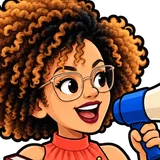
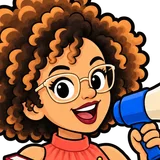
Refine character art, map terrain and discovery navigation

diff --git a/components/exploration-game.tsx b/components/exploration-game.tsx
@@ -22,6 +22,7 @@ const targets:Target[]=[...mapCharacters, ...modularDestinations.map<Target>(d=>
 const destinationPortraits:Record<string,string>={"pingos-nos-ins":"pingos-nos-ins-redacao-v04.png","east-cafe":"cafe-apoio-render-v01.png","colabin":"colabin-laboratorio-v02.png","vagao-feminino":"metro-vagao-feminino-v04.png","livrinhoteca":"livrinhoteca-isometrico-v01.png","cineminha":"cineminha-isometrico-v01.png","mercado-vagas":"mercado-vagas-isometrico-v01.png","prefeintura":"prefeitura-render-v02.png","taverna-joguins":"taverna-medieval-games-v04.png","pracinha":"praca-central-circular-v01.png","espacin-coloridin":"coloridin-arco-iris-frontal-v02.png","linkedin":"linkedin-predio-v02.png","jardim-secreto":"rosa-arvore-isometrica-v01.png","estudio-criativins":"estudio-render-v02.png","silicin-valley":"silicin-campus-v02.png","departamento-xerifins":"xerifins-departamento-v01.png","inglish-pub":"inglish-pub-render-v02.png","oficina-vendinhas":"feira-roupas-v01.png","torre-mistica":"torre-feiticaria-v02.png","plaza-hispanica":"plaza-arcada-bandeiras-v02.png","academia-marombins":"academia-render-v02.png","binstro":"binstro-render-v02.png","paises-africanos":"aeroporto-internacional-v02.png"};
 // Crop the existing illustration to the head without exposing the map pose or props.
 const facePortraits:Record<string,{width:number;height:number;crop:[number,number,number]}>= {
+  'simone-lapa':{width:1448,height:1086,crop:[475,15,500]},
   'gustavo-pontes':{width:1199,height:1312,crop:[350,0,560]},
   'camila-ochoa':{width:1317,height:1194,crop:[300,15,680]},
   'vinicius-macedo':{width:1024,height:1536,crop:[160,0,440]},
@@ -51,7 +52,7 @@ const facePortraits:Record<string,{width:number;height:number;crop:[number,numbe
   'maria-fernanda-figueiroa':{width:1024,height:1536,crop:[340,45,390]},
   'luara-nardelli':{width:1024,height:1536,crop:[290,70,540]},
   'naiane-de-mello':{width:1024,height:1536,crop:[270,0,530]},
-  'diego-ungari':{width:1388,height:1133,crop:[445,0,350]},
+  'diego-ungari':{width:1388,height:1133,crop:[420,0,400]},
   'elton-pavesi':{width:1024,height:1536,crop:[210,0,560]},
   'davi-cabeca':{width:1254,height:1254,crop:[110,10,1140]},
   'loisi-vieira':{width:1310,height:1200,crop:[275,20,410]},
@@ -153,6 +154,8 @@ export default function ExplorationGame({optimized=false,hd=false,hdManifest}:{o
   useLayoutEffect(()=>{wheelZoom.current=zoom;},[zoom]);
   const [message, setMessage] = useState('');
   const [messageVersion,setMessageVersion]=useState(0);
+  type Milestone = {text:string;tone:'quarter'|'half'|'complete'};
+  const [milestone,setMilestone]=useState<Milestone|null>(null);
   function showMessage(text:string){
     setMessage(text);
     setMessageVersion(version=>version+1);
@@ -162,6 +165,11 @@ export default function ExplorationGame({optimized=false,hd=false,hdManifest}:{o
     const timer=window.setTimeout(()=>setMessage(''),5000);
     return()=>window.clearTimeout(timer);
   },[message,messageVersion]);
+  useEffect(()=>{
+    if(!milestone)return;
+    const timer=window.setTimeout(()=>setMilestone(null),5000);
+    return()=>window.clearTimeout(timer);
+  },[milestone]);
   const [filter, setFilter] = useState<'all' | 'remaining'>('all');
   const help = useRef<HTMLDialogElement>(null);
   const reset = useRef<HTMLDialogElement>(null);
@@ -240,7 +248,6 @@ export default function ExplorationGame({optimized=false,hd=false,hdManifest}:{o
     if(e.touches.length)beginTouch(e);
   }
   const current = targets.find(t => t.id === selected);
-  const complete = mapCharacters.length > 0 && found.length === mapCharacters.length;
   function constrainCamera(){
     const v=viewport.current;if(!v)return;
     const next=boundedScroll(v.scrollLeft,v.scrollTop,v.clientWidth,v.clientHeight,v.scrollWidth,v.scrollHeight);
@@ -266,6 +273,20 @@ export default function ExplorationGame({optimized=false,hd=false,hdManifest}:{o
     v.addEventListener('wheel',wheel,{passive:false,capture:true});
     return()=>v.removeEventListener('wheel',wheel,true);
   },[viewportNode]);
+  function locateFoundCharacter(id:string){
+    if(!found.includes(id))return false;
+    const v=viewport.current;
+    const person=mapCharacters.find(character=>character.id===id);
+    const node=v?.querySelector<SVGGraphicsElement>(`#character-${id}, [data-character="${id}"]`)??Array.from(v?.querySelectorAll<SVGGraphicsElement>('.optimized-character')??[]).find(element=>element.getAttribute('aria-label')===`Encontrar ${person?.name}`);
+    if(!v||!node)return false;
+    const rect=node.getBoundingClientRect();
+    if(!rect.width||!rect.height)return false;
+    setSelected(id);
+    const frame=v.getBoundingClientRect();
+    const next=boundedScroll(v.scrollLeft+rect.left-frame.left+rect.width/2-v.clientWidth/2,v.scrollTop+rect.top-frame.top+rect.height/2-v.clientHeight/2,v.clientWidth,v.clientHeight,v.scrollWidth,v.scrollHeight);
+    v.scrollTo({left:next.left,top:next.top,behavior:window.matchMedia('(prefers-reduced-motion: reduce)').matches?'instant':'smooth'});
+    return true;
+  }
   function locateDestination(id:string){
     setSelected(id);const v=viewport.current,d=targets.find(item=>item.id===id);if(!v||!d)return false;
     // Follow rendered artwork rather than the original lot coordinates. The
@@ -296,14 +317,13 @@ export default function ExplorationGame({optimized=false,hd=false,hdManifest}:{o
     const count = found.length + 1;
     const quarter = Math.ceil(mapCharacters.length * .25);
     const half = Math.ceil(mapCharacters.length * .5);
+    showMessage(`Você encontrou ${target.name}!`);
     if (count === mapCharacters.length) {
-      showMessage('YAY! Você encontrou todos os amiguINs! E os easter eggs, achou todos? 👀');
+      setMilestone({text:'YAY! Você encontrou todos os amiguINs! E os easter eggs, achou todos? 👀',tone:'complete'});
     } else if (count === half) {
-      showMessage(`UAU! Você já achou ${count} amiguINs pelas ruas da amiguINlândia! Já se encontrou também?`);
+      setMilestone({text:`UAU! Você já achou ${count} amiguINs pelas ruas da amiguINlândia! Já se encontrou também?`,tone:'half'});
     } else if (count === quarter) {
-      showMessage(`Você já encontrou ${count} amiguINs! Tá curtindo passear pela amiguINlândia?`);
-    } else {
-      showMessage(`Você encontrou ${target.name}!`);
+      setMilestone({text:`Você já encontrou ${count} amiguINs! Tá curtindo passear pela amiguINlândia?`,tone:'quarter'});
     }
     if (selected === target.id) setSelected(null);
   }
@@ -349,7 +369,7 @@ export default function ExplorationGame({optimized=false,hd=false,hdManifest}:{o
           if (category.id === 'places') items.sort((a, b) => (placeListPriority[a.id] ?? 3) - (placeListPriority[b.id] ?? 3));
           const count = items.filter(t => found.includes(t.id)).length;
           const Icon = Store;
-          return <section className="category" key={category.id}><button className="category-heading" aria-expanded={!collapsed.includes(category.id)} onClick={() => setCollapsed(prev => prev.includes(category.id) ? prev.filter(c => c !== category.id) : [...prev, category.id])}><strong>{category.label}</strong>{category.id === 'people' && <span className="category-count">{count}<span>/{items.length}</span></span>}<ChevronDown size={15} className={collapsed.includes(category.id) ? 'closed' : ''} /></button>{!collapsed.includes(category.id) && <div className={`target-grid ${category.id === 'places' ? 'places-grid' : ''}`}>{items.filter(t => category.id === 'places' || filter !== 'remaining' || !found.includes(t.id)).map(target => <button key={target.id} className={`target-card ${selected === target.id ? 'selected' : ''} ${found.includes(target.id) ? 'found' : ''}`} aria-label={target.category === 'places' ? `Ir para ${target.name}` : `Procurar ${target.name}${sheriffIds.has(target.id)?', xerifIN':''}${found.includes(target.id) ? ', encontrado' : ''}`} aria-pressed={selected === target.id} onClick={() => { if(target.category === 'places'){if(locateDestination(target.id))showMessage(`Você está em ${target.name}.`);return;} setSelected(target.id); showMessage(found.includes(target.id) ? `${target.name} já foi encontrado!` : `Procurando ${target.name}. Encontre no mapa!`); }}><span className="portrait-wrap"><Portrait target={target} optimized={optimized}/>{sheriffIds.has(target.id)&&<span className="sheriff-badge" role="img" aria-label="xerifIN"><svg viewBox="0 0 24 24" aria-hidden="true"><path d="M12 3l3 6 6.6 1-4.8 4.7 1.1 6.6L12 18.2l-5.9 3.1 1.1-6.6L2.4 10 9 9Z" fill="#FAD846" stroke="#604722" strokeWidth="1.4"/>{[[12,3],[21.6,10],[17.9,21.3],[6.1,21.3],[2.4,10]].map(([x,y],i)=><circle key={i} cx={x} cy={y} r="1.5" fill="#FFE888" stroke="#604722" strokeWidth=".8"/>)}</svg></span>}{found.includes(target.id) && <span className="found-check"><Check size={12} /></span>}</span><span>{target.name}</span></button>)}</div>}</section>;
+          return <section className="category" key={category.id}><button className="category-heading" aria-expanded={!collapsed.includes(category.id)} onClick={() => setCollapsed(prev => prev.includes(category.id) ? prev.filter(c => c !== category.id) : [...prev, category.id])}><strong>{category.label}</strong>{category.id === 'people' && <span className="category-count">{count}<span>/{items.length}</span></span>}<ChevronDown size={15} className={collapsed.includes(category.id) ? 'closed' : ''} /></button>{!collapsed.includes(category.id) && <div className={`target-grid ${category.id === 'places' ? 'places-grid' : ''}`}>{items.filter(t => category.id === 'places' || filter !== 'remaining' || !found.includes(t.id)).map(target => <button key={target.id} className={`target-card ${selected === target.id ? 'selected' : ''} ${found.includes(target.id) ? 'found' : ''}`} aria-label={target.category === 'places' ? `Ir para ${target.name}` : `Procurar ${target.name}${sheriffIds.has(target.id)?', xerifIN':''}${found.includes(target.id) ? ', encontrado' : ''}`} aria-pressed={selected === target.id} onClick={() => { if(target.category === 'places'){if(locateDestination(target.id))showMessage(`Você está em ${target.name}.`);return;} if(found.includes(target.id)){if(locateFoundCharacter(target.id))showMessage(`Aqui está ${target.name}!`);return;} setSelected(target.id); showMessage(`Procurando ${target.name}. Encontre no mapa!`); }}><span className="portrait-wrap"><Portrait target={target} optimized={optimized}/>{sheriffIds.has(target.id)&&<span className="sheriff-badge" role="img" aria-label="xerifIN"><svg viewBox="0 0 24 24" aria-hidden="true"><path d="M12 3l3 6 6.6 1-4.8 4.7 1.1 6.6L12 18.2l-5.9 3.1 1.1-6.6L2.4 10 9 9Z" fill="#FAD846" stroke="#604722" strokeWidth="1.4"/>{[[12,3],[21.6,10],[17.9,21.3],[6.1,21.3],[2.4,10]].map(([x,y],i)=><circle key={i} cx={x} cy={y} r="1.5" fill="#FFE888" stroke="#604722" strokeWidth=".8"/>)}</svg></span>}{found.includes(target.id) && <span className="found-check"><Check size={12} /></span>}</span><span>{target.name}</span></button>)}</div>}</section>;
         })}</div>
 
 
@@ -363,12 +383,13 @@ export default function ExplorationGame({optimized=false,hd=false,hdManifest}:{o
 
           {<div className="map-actions"><button className="help-button" aria-label="Como jogar" onClick={() => help.current?.showModal()}><HelpCircle size={17} /></button><button className="help-button" aria-label="Recomeçar" onClick={() => reset.current?.showModal()}><RotateCcw size={17} /></button></div>}
 
-          {message && <div className={`game-message ${complete ? 'complete' : ''}`} role="status"><Sparkles size={19} /><span>{complete ? 'YAY! Você encontrou todos os amiguINs! E os easter eggs, achou todos? 👀' : message}</span><button aria-label="Fechar mensagem" onClick={() => setMessage('')}><X size={15} /></button></div>}
+          {message && <div className="game-message" role="status"><Sparkles size={19} /><span>{message}</span><button aria-label="Fechar mensagem" onClick={() => setMessage('')}><X size={15} /></button></div>}
+          {milestone && <div className={`game-message game-milestone ${milestone.tone}`} role="status"><Sparkles size={24} /><span>{milestone.text}</span><button aria-label="Fechar mensagem de progresso" onClick={()=>setMilestone(null)}><X size={15}/></button></div>}
         </div>
         <div className="map-footer"><span>{mapCharacters.length} pessoas para encontrar · clique nos EspacINs para navegar · use o zoom e arraste para explorar</span></div>
       </section>
     </div>
     <dialog ref={help} className="game-dialog"><button className="dialog-close" aria-label="Fechar instruções" onClick={() => help.current?.close()}><X /></button><h2>Explore a amiguINlândia</h2><ol><li>Escolha um amiguIN para procurar.</li><li>Ao encontrar, clique no amiguIN no mapa para registrar a descoberta.</li><li>Clique em um espacIN da lista para ir até ele no mapa.</li><li>Use o mouse (no computador) ou gesto de pinça nos dedos (no celular) para ampliar ou reduzir; arraste o mapa para explorar.</li><li>Eles não são registráveis, mas o mapa está cheio de easter eggs... encontrou todos? 👀</li></ol><button className="dialog-primary" onClick={() => help.current?.close()}>Vamos explorar <ArrowUpRight size={17} /></button></dialog>
-    <dialog ref={reset} className="game-dialog"><h2>Mais uma volta?</h2><p>As descobertas desta rodada serão apagadas e as pessoas poderão ser encontradas novamente.</p><div className="dialog-actions"><button onClick={() => reset.current?.close()}>Continuar jogando</button><button className="dialog-primary" onClick={() => { setFound([]); setSelected(null); setMessage(''); setZoom(1); reset.current?.close(); }}>Recomeçar</button></div></dialog>
+    <dialog ref={reset} className="game-dialog"><h2>Mais uma volta?</h2><p>As descobertas desta rodada serão apagadas e as pessoas poderão ser encontradas novamente.</p><div className="dialog-actions"><button onClick={() => reset.current?.close()}>Continuar jogando</button><button className="dialog-primary" onClick={() => { setMilestone(null); setFound([]); setSelected(null); setMessage(''); setZoom(1); reset.current?.close(); }}>Recomeçar</button></div></dialog>
   </main></MapEditorContext.Provider>;
 }

diff --git a/lib/map-characters.ts b/lib/map-characters.ts
@@ -1,6 +1,7 @@
 import type { Target } from './game-data';
 
 export const mapCharacters: (Target & { file: string; elevation?: number; isSheriff?: boolean; spriteFrame?: { x: number; y: number; width: number; height: number; sourceWidth: number; sourceHeight: number } })[] = [
+  { id: 'simone-lapa', name: 'Simone Lapa', article: 'a', category: 'people', x: 1121.111, y: -1881.111, width: 90, height: 67.5, file: '/images/characters/simone-lapa-grupo-v01.png', clue: 'Simone está no cantinho verde atrás da montanha, de blusa roxa, entre um palhaço, um tubarão fora d’água e um ET.' },
   { id: 'gustavo-pontes', name: 'Gustavo Pontes', article: 'o', category: 'people', isSheriff: true, x: 1312.158, y: -362.158, elevation: 90, width: 45, height: 49.241034, file: '/images/characters/gustavo-pontes-v01.png', clue: 'Gustavo é o xerifin de cachos e óculos, voando numa vassoura ao redor da torre mística com camiseta roxa de signos do zodíaco.' },
   { id: 'camila-ochoa', name: 'Camila Ochoa', article: 'a', category: 'people', x: 2300, y: 1600, width: 30, height: 27.2, file: '/images/characters/camila-ochoa-v02.png', clue: 'Camila está posando atrás do monumento EU ♥ amiguINs, com os cotovelos apoiados no M.' },
   { id: 'vinicius-macedo', name: 'Vinícius Macedo', article: 'o', category: 'people', isSheriff: true, x: 1285, y: 835, width: 36, height: 54, file: '/images/characters/vinicius-macedo-v01.png', clue: 'Vinícius é o xerifin de cachos e óculos na pracinha, empurrando o carrinho com um menino que segura uma pelúcia da Galinha Pintadinha.' },
@@ -20,19 +21,19 @@ export const mapCharacters: (Target & { file: string; elevation?: number; isSher
   { id: 'bruna-lucas', name: 'Bruna Lucas', article: 'a', category: 'people', x: 1793.505, y: 2456.495, width: 18, height: 54, file: '/images/characters/bruna-gabriela-v02.png', spriteFrame: {x:0,y:0,width:512,height:1536,sourceWidth:1024,sourceHeight:1536}, clue: 'Bruna está na área livre perto da praia, de camiseta preta e mãos dadas com Gabriela.' },
   { id: 'gabriela-ribeiro', name: 'Gabriela Ribeiro', article: 'a', category: 'people', isSheriff: true, x: 1806.495, y: 2443.505, width: 18, height: 54, file: '/images/characters/bruna-gabriela-v02.png', spriteFrame: {x:512,y:0,width:512,height:1536,sourceWidth:1024,sourceHeight:1536}, clue: 'Gabriela é a xerifinha de cabelos longos e óculos, com estrela no peito, de mãos dadas com Bruna perto da praia.' },
   { id: 'eduardo-mesquita', name: 'Eduardo Mesquita', article: 'o', category: 'people', x: 1734, y: 1725.37, width: 30, height: 45, file: '/images/characters/eduardo-mesquita-v02.png', clue: 'Eduardo está no círculo central do campo, falando ao microfone com uniforme do Fluminense e uma bola debaixo do braço.' },
-  { id: 'jakeline-sakamoto', name: 'Jakeline Sakamoto', article: 'a', category: 'people', x: 1710, y: 2460, width: 30, height: 45, file: '/images/characters/jakeline-sakamoto-v01.png', clue: 'Jakeline está fantasiada de Wandinha, com tranças e mechas claras, na área livre perto da praia.' },
+  { id: 'jakeline-sakamoto', name: 'Jakeline Sakamoto', article: 'a', category: 'people', x: 1710, y: 2460, width: 30, height: 45, file: '/images/characters/jakeline-sakamoto-v02.png', clue: 'Jakeline está fantasiada de Wandinha, com tranças e mechas claras, batom preto e mãozinha no ombro, na área livre perto da praia.' },
   { id: 'tiago-vieira', isSheriff: true, name: 'Tiago Vieira', article: 'o', category: 'people', x: 1640, y: 360, width: 60, height: 73, file: '/images/characters/tiago-vieira-v04.png', clue: 'Tiago, nosso prefeitIN, está diante da prefeitura preparando presentes na gift station.' },
   { id: 'eric-barros', name: 'Eric Barros', article: 'o', category: 'people', x: 1750, y: 1900, width: 30, height: 45, file: '/images/characters/eric-barros-v01.png', clue: 'Eric está perto da praia, com a camiseta preta da Elis, fazendo cara feia para a pamonha que segura.' },
   { id: 'melissa-augustin', isSheriff: true, name: 'Melissa Augustin', article: 'a', category: 'people', x: 2228, y: -303, width: 30, height: 45, file: '/images/characters/melissa-augustin-v04.png', clue: 'Melissa está sentada na sebe do jardim secreto, com um gatinho branco e laranja no colo e um pote de mel na mão.' },
   { id: 'ingrid-lima', name: 'Ingrid Lima', article: 'a', category: 'people', x: 1120, y: 1180, width: 41.5, height: 48, file: '/images/characters/ingrid-lima-v02.png', clue: 'Ingrid está de hábito de freira, com os cachos vermelhos à mostra, apoiada no refrigerador com ímãs GAB.' },
   { id: 'rebeca-araujo', name: 'Rebeca Araujo', article: 'a', category: 'people', x: 2790, y: 350, width: 30, height: 45, file: '/images/characters/rebeca-araujo-v03.png', clue: 'Rebeca está rindo de olhos fechados, com gorro laranja, fone, óculos e moletom preto.' },
-  { id: 'adriane-costa', name: 'Adriane Costa', article: 'a', category: 'people', isSheriff: true, x: 975, y: 975, width: 40, height: 60, file: '/images/characters/adriane-costa-v01.png', clue: 'Adriane é professora de espanhol e xerifinha na plaza hispânica, segurando um livro de espanhol e falando ao megafone.' },
+  { id: 'adriane-costa', name: 'Adriane Costa', article: 'a', category: 'people', isSheriff: true, x: 975, y: 975, width: 40, height: 60, file: '/images/characters/adriane-costa-v02.png', clue: 'Adriane é professora de espanhol e xerifinha na plaza hispânica, segurando um livro de espanhol e falando ao megafone.' },
   { id: 'maria-fernanda-figueiroa', name: 'Maffer Figueiroa', article: 'a', category: 'people', x: 1010, y: 1356, width: 30, height: 45, file: '/images/characters/maria-fernanda-figueiroa-v01.png', clue: 'María está na rua perto da plaza hispânica, comendo um espetinho de cuy, com cabelo roxo curto e óculos redondos.' },
   { id: 'luara-nardelli', name: 'Luara Nardelli', article: 'a', category: 'people', isSheriff: true, x: 394, y: 143, width: 30, height: 45, file: '/images/characters/luara-nardelli-v02.png', clue: 'Luara está sobre os livros em frente à livrINhoteca, de blusa roxa, abraçando dois livros e disparando seu revólver antigo para cima.' },
   { id: 'naiane-de-mello', name: 'Naiane de Mello', article: 'a', category: 'people', isSheriff: true, x: 228, y: 90, elevation: 12, width: 23, height: 40, file: '/images/characters/naiane-de-mello-v02.png', clue: 'Naiane é uma xerifinha de cabelo curto e óculos, saindo pela porta do vagão feminino e acenando para você.' },
-  { id: 'diego-ungari', name: 'Diego Ungari', article: 'o', category: 'people', x: 1600, y: -730, width: 48, height: 39, file: '/images/characters/diego-ungari-v03.png', clue: 'Diego mora na casinha da clareira e está sentado em um tronco, de moletom rosa, botas verdes e caneca na mão, perto de seu cachorro.' },
+  { id: 'diego-ungari', name: 'Diego Ungari', article: 'o', category: 'people', x: 1600, y: -730, width: 48, height: 39, file: '/images/characters/diego-ungari-v04.png', clue: 'Diego mora na casinha da clareira e está sentado em um tronco, de moletom rosa, botas verdes e caneca na mão, perto de seu cachorro.' },
   { id: 'elton-pavesi', name: 'Elton Pavesi', article: 'o', category: 'people', x: 2795, y: 375, width: 30, height: 45, file: '/images/characters/elton-pavesi-v02.png', clue: 'Elton está sentado em um banquinho na região da taverna dos joguINs, segurando um aviãozinho em uma mão e um pedaço de queijo na outra.' },
-  { id: 'davi-cabeca', name: 'Davi Cabeça', article: 'o', category: 'people', x: -95, y: -25, elevation: 14, width: 18, height: 20, file: '/images/characters/davi-cabeca-v01.png', clue: 'Davi é uma cabeça flutuante de cabelos cacheados e barba, em meio à Parada do Orgulho LGBT no cantIN coloridIN.' },
+  { id: 'davi-cabeca', name: 'Davi Cabeça', article: 'o', category: 'people', x: -95, y: -25, elevation: 14, width: 18, height: 20, file: '/images/characters/davi-cabeca-v02.png', clue: 'Davi é uma cabeça flutuante de cabelos cacheados e barba, em meio à Parada do Orgulho LGBT no cantIN coloridIN.' },
   { id: 'loisi-vieira', isSheriff: true, name: 'Loisi Vieira', article: 'a', category: 'people', x: 2690, y: 245, width: 49, height: 45, file: '/images/characters/loisi-vieira-v02.png', clue: 'Loisi está na área da taverna dos joguINs, empurrando um carrinho de supermercado e usando uma estrela de xerife no peito.' },
   { id: 'henrique-hardman', name: 'Henrique Hardman', article: 'o', category: 'people', x: 260, y: 55, elevation: 61, width: 34, height: 38, file: '/images/characters/henrique-hardman-v02.png', clue: 'Henrique está agachado no teto do vagão feminino, com um pé de cabra junto ao alçapão fechado com cadeado.' },
   { id: 'patrick-canuto', isSheriff: true, name: 'Patrick Canuto', article: 'o', category: 'people', x: 2828, y: 130, width: 30, height: 45, file: '/images/characters/patrick-canuto-v01.png', clue: 'Patrick é o taverneiro de roupas medievais, óculos, estrela de xerife e controle de videogame, diante da taverna junto à floresta.' },

diff --git a/components/modular-map.tsx b/components/modular-map.tsx
@@ -8,7 +8,7 @@ import MapCars from './map-cars';
 import EditableGroundPatches from './editable-ground-patches';
 import {MovableMapElement,MapLayoutLayers} from './map-layout-editor';
 import NorthMetropolis, {MetropolisTransitionGround} from './north-metropolis';
-import NorthMountain from './north-mountain';
+import NorthMountain, {NorthMountainGround} from './north-mountain';
 import NorthDesert from './north-desert';
 import {forestCoastPlants} from '@/lib/north-forest';
 import forestComposite from '@/lib/forest-composite.json';
@@ -96,10 +96,11 @@ export default function ModularMap({ selected, onSelect }: { selected: string | 
     <MovableMapElement id="forest-composite-front" locked><image data-forest-composite="front" href={forestComposite.front.file} x={forestComposite.x} y={forestComposite.y} width={forestComposite.width} height={forestComposite.height} pointerEvents="none" aria-label="Árvores da frente da floresta"/></MovableMapElement>
     <MovableMapElement id="north-metropolis" locked><NorthMetropolis/></MovableMapElement>
     <MetroUnderpass/>
+    <MapLayoutLayers front={false}/>
+    <MovableMapElement id="north-mountain-ground" locked><NorthMountainGround/></MovableMapElement>
     <MovableMapElement id="north-mountain" locked><NorthMountain/></MovableMapElement>
     <g data-layer="destinations-depth-sorted">
     <MovableMapElement id="pamonha-cornfield-ground"><path d="M300 686Q404 682 447 704Q495 731 470 790Q456 846 483 895Q506 946 475 1005Q461 1048 481 1104Q503 1170 468 1220Q446 1270 474 1325Q497 1380 468 1433Q448 1480 480 1532Q510 1598 459 1648Q422 1674 300 1668Z" fill="url(#pamonha-earth-texture)" mask="url(#pamonha-earth-fade)" pointerEvents="none"/></MovableMapElement>
-    <MapLayoutLayers front={false}/>
     <g pointerEvents="none" fill="url(#pamonha-earth-texture)">
       {[{x:558,y:1558,width:389},{x:1063,y:2118,width:384}].map(lot=><polygon key={lot.y} points={[[lot.x,lot.y],[lot.x+lot.width,lot.y],[lot.x+lot.width,lot.y+444],[lot.x,lot.y+444]].map(([x,y])=>{const p=projectGround(x,y);return `${p.x},${p.y}`;}).join(' ')}/>)}
     </g>
@@ -121,9 +122,9 @@ export default function ModularMap({ selected, onSelect }: { selected: string | 
     <MovableMapElement id="hen-rebeca-accessories"><image href="/images/modular/galinha-rebeca-v01.png" x="1490" y="1090" width="25" height="30" pointerEvents="none"/></MovableMapElement>
     <MovableMapElement id="rebeca-dimensional-vortex"><image href="/images/modular/vortex-rebeca-v01.png" x="1380" y="1020" width="100" height="100" pointerEvents="none"/></MovableMapElement>
     <MovableMapElement id="gabriel-female-moustache-nonplayable"><image href="/images/modular/gabriel-versao-feminina-bigode-v01.png" x="460" y="570" width="30" height="45" pointerEvents="none"/></MovableMapElement>
-    <MovableMapElement id="bolsonaro-cage-nonplayable"><image href="/images/modular/bolsonaro-jaula-npc-v01.png" x="1610" y="755" width="44" height="66" pointerEvents="none"/></MovableMapElement>
+    <MovableMapElement id="bolsonaro-cage-nonplayable"><image href="/images/modular/bolsonaro-jaula-npc-v04.png" x="1610" y="755" width="44" height="66" pointerEvents="none"/></MovableMapElement>
     <MovableMapElement id="football-field-bleachers"><g transform="translate(944 1098)" pointerEvents="none"><g transform={uprightProjection(-.554, .587).transform}><image href="/images/modular/campinho-arquibancada-v02.png" width="380" height="253.33"/></g></g></MovableMapElement>
-    <MovableMapElement id="lula-nonplayable"><image href="/images/modular/lula-npc-v01.png" x="1550" y="755" width="28" height="42" pointerEvents="none"/></MovableMapElement>
+    <MovableMapElement id="lula-nonplayable"><image href="/images/modular/lula-npc-v02.png" x="1550" y="755" width="28" height="42" pointerEvents="none"/></MovableMapElement>
     <MovableMapElement id="job-seekers-queue"><image href="/images/modular/fila-empregos-v01.png" x="1265" y="515" width="120" height="80" pointerEvents="none"/></MovableMapElement>
     <MovableMapElement id="work-booklet-loose"><image href="/images/modular/carteira-trabalho-avulsa-v01.png" x="1370" y="610" width="30" height="30" pointerEvents="none"/></MovableMapElement>
     <MovableMapElement id="cemetery-single-image"><image href="/images/modular/cemiterio-v01.png" x="885" y="1070" width="175" height="140" pointerEvents="none"/></MovableMapElement>

diff --git a/components/pilot-landscape-prop.tsx b/components/pilot-landscape-prop.tsx
@@ -20,13 +20,19 @@ export default function PilotLandscapeProp({ item }: { item: LandscapeProp }) {
   const treeWidth = item.size ?? 105;
   const illustration = item.kind === 'clock' || item.kind === 'lamp' || item.kind === 'popcorn' || item.kind === 'planter' || item.kind === 'table' || item.kind === 'notice' || item.kind === 'bollard' ? illustratedProps[item.kind] : null;
   if (illustration) return <g data-landscape={item.id} transform={`translate(${at.x} ${at.y})`} pointerEvents="none" aria-hidden="true">
-    <image href={`${pilotAssetPath}${illustration.file}`} x={-illustration.anchorX*illustration.scale} y={-illustration.anchorY*illustration.scale} width={illustration.width*illustration.scale} height={illustration.height*illustration.scale} preserveAspectRatio="xMidYMid meet"/>
+    <image href={`${pilotAssetPath}${item.id==='civic-city-notice'?'mural-workshop-capcut-v01.png':illustration.file}`} x={-illustration.anchorX*illustration.scale} y={-illustration.anchorY*illustration.scale} width={illustration.width*illustration.scale} height={illustration.height*illustration.scale} preserveAspectRatio="xMidYMid meet"/>
+    {item.id==='civic-city-notice'&&<g transform="scale(.052) translate(-700 -965)">
+      <g transform="matrix(1 .342 0 1 430 330)">
+        <text x="265" y="44" textAnchor="middle" fill="#1C1C1C" fontFamily="var(--font-gasoek), sans-serif" fontSize="35">
+          {['JÁ SE INSCREVEU','PRO WORKSHOP','DE CAPCUT DIA 15?'].map((line,i)=><tspan key={line} x="265" dy={i===0?0:62}>{line}</tspan>)}
+        </text>
+      </g>
+    </g>}
   </g>;
   return <g data-landscape={item.id} transform={`translate(${at.x} ${at.y})`} pointerEvents="none" aria-hidden="true" stroke={p.ink} strokeWidth="1.8" strokeLinejoin="round" strokeLinecap="round">
     <ellipse cx="7" cy="3" rx={item.kind==='tree'?22:19} ry="8" fill={p.ink} opacity=".12" stroke="none"/>
     {item.kind==='tree' && <image href={`${pilotAssetPath}rosa-arvore-isometrica-v01.png`} x={-treeWidth*.525} y={-treeWidth*.7} width={treeWidth} height={treeWidth*.75} preserveAspectRatio="xMidYMid meet"/>}
   </g>;
 }
-
 
 

diff --git a/components/north-mountain.tsx b/components/north-mountain.tsx
@@ -1,4 +1,12 @@
 export default function NorthMountain(){return <g data-layer="north-mountain" pointerEvents="none" aria-label="Montanha com letreiro AMIGUINLÂNDIA">
-  <path d="M2300-700H3400V140L2600 100L2300-70Z" fill="#789B48" aria-label="Chão verde atrás da montanha"/>
   <image href="/images/modular/montanha-letreiro-integrado-v02.png" x="1330" y="-230" width="1700" height="642.82"/>
+</g>;}
+
+export function NorthMountainGround(){return <g pointerEvents="none">
+  <defs>
+    <pattern id="mountain-back-grass" x="2300" y="-700" width="1100" height="412.5" patternUnits="userSpaceOnUse">
+      <image href="/images/modular/montanha-chao-organico-v01.png" width="1100" height="412.5" preserveAspectRatio="xMidYMid slice"/>
+    </pattern>
+  </defs>
+  <path d="M2300-700H3400V140L2600 100L2300-70Z" fill="url(#mountain-back-grass)" aria-label="Chão verde texturizado atrás da montanha"/>
 </g>;}

diff --git a/app/globals.css b/app/globals.css
@@ -356,3 +356,10 @@ h1,h2,h3,h4,h5,h6,button,label,.eyebrow,.progress-label,.category-count,.map-top
 
 .sheriff-badge { position:absolute; left:-3px; bottom:-3px; width:19px; height:19px; display:grid; place-items:center; background:#fffef9; border-radius:50%; border:1px solid #c8b77b; z-index:1; }
 .sheriff-badge svg { width:16px; height:16px; overflow:visible; }
+
+.game-message.quarter { background:var(--pink); }
+.game-message.half { background:var(--coral); }
+
+.game-milestone { top:50%; transform:translate(-50%,-50%); width: min(460px,calc(100% - 35px)); padding:28px 30px; text-align:center; flex-direction:column; z-index:5; pointer-events:none; }
+.game-milestone > span { width:100%; text-align:center; }
+.game-milestone button { position:absolute; top:8px; right:8px; margin:0; pointer-events:auto; }

diff --git a/docs/personagens-revisao-estilo-2026-10-13.md b/docs/personagens-revisao-estilo-2026-10-13.md
@@ -1,0 +1,17 @@
+# Revisão de Adriane, Davi e Diego
+
+Imagegen integrado, com as identidades ilustradas anteriores preservadas. Referências explícitas em todas as edições: Nathan v01, Gabriel v02 e novo Lula v02, registrado em AGENTS.md como referência ideal adicional. Mantidas posições, dimensões, identificadores e papéis no jogo; retratos do menu atualizados. Prévia HD preservada.
+
+Artes: `public/images/characters/adriane-costa-v02.png`, `public/images/characters/davi-cabeca-v02.png`, `public/images/characters/diego-ungari-v04.png`.
+
+## Adriane
+
+Edit target Image1 using Images2 Nathan,3 Gabriel,4 new Lula as explicit mandatory STYLE references, Lula being ideal finish. Preserve specific person's existing illustrated identity, never borrow reference faces. Very simple rounded cartoon features, thick clean uniform black contours, large simple oval eyes dark pupils one highlight looking directly at viewer, rounded simple nose, simple smile, flat controlled two-tone cel shading, compact cartoon proportions. NO portrait realism, glossy princess look, fine hair strands or painterly gradients. True transparent alpha, no halo glow floor or shadows. Adriane: redraw ONLY face/head rendering and simplify curls, preserve her medium-light warm skin, voluminous short tight dark curls with copper/honey highlights, pale gold rectangular glasses, burgundy lips, own identity. Keep exact body pose, coral sleeveless high-neck blouse, jeans shoes, golden five-point badge, Spanish book labelled ESPAÑOL and blue cream megaphone near mouth, all framing/dimensions. Face friendly speaking expression, eyes to viewer.
+
+## Davi
+
+Edit target Image1 using Images2 Nathan,3 Gabriel,4 new Lula as explicit mandatory STYLE references, Lula being ideal finish. Preserve specific person's existing illustrated identity, never borrow reference faces. Very simple rounded cartoon features, thick clean uniform black contours, large simple oval eyes dark pupils one highlight looking directly at viewer, rounded simple nose, simple smile, flat controlled two-tone cel shading, compact cartoon proportions. NO portrait realism, glossy princess look, fine hair strands or painterly gradients. True transparent alpha, no halo glow floor or shadows. Davi Cabeça: redraw floating HEAD ONLY with same identity: light warm skin, high forehead, short dark brown curls, brown eyes, full beard and moustache, soft friendly smile. Make beard simple large clean cel shaded masses like Gabriel/Lula, NOT individual textured hairs. Keep whole head ears curls beard in square canvas, no neck shoulders body or injuries. Face eyes looking directly toward viewer. Preserve own recognizable facial proportions.
+
+## Diego — redesenho completo
+
+Edit target Image1 using Images2 Nathan,3 Gabriel,4 new Lula as explicit mandatory STYLE references, Lula being ideal finish. Preserve specific person's existing illustrated identity, never borrow reference faces. Very simple rounded cartoon features, thick clean uniform black contours, large simple oval eyes dark pupils one highlight looking directly at viewer, rounded simple nose, simple smile, flat controlled two-tone cel shading, compact cartoon proportions. NO portrait realism, glossy princess look, fine hair strands or painterly gradients. True transparent alpha, no halo glow floor or shadows. FULL REDRAW of Diego Ungari, entire character and log, not merely face edit. Identity from Image1: broad softly oval face fuller cheeks, dark wavy curly hair asymmetrically swept, modest eyebrows, dark moustache and sparse short jaw/chin stubble, warm toothy smile; no glasses, not full Gabriel beard. Seated leaning slightly forward on diagonal fallen rustic log, holding white ceramic mug in right hand, left hand at knee. Salmon pink hooded sweatshirt with white trefoil emblem, black trousers fine yellow piping, tall olive green rubber boots. Redraw ALL body with compact cartoon proportions and enlarged friendly head like Lula reference, simplified clothing folds and simple log bark, not high detail render. Face looking directly at viewer. Entire seated body boots mug and whole log visible in LANDSCAPE composition similar to Image1, no dog (separate existing asset), no ground terrain props text or background. Same bold black outline/cartoon finish as Lula Nathan Gabriel.

diff --git a/docs/bolsonaro-npc.md b/docs/bolsonaro-npc.md
@@ -1,0 +1,15 @@
+# Bolsonaro — revisão de estilo
+
+Arte atual: `public/images/modular/bolsonaro-jaula-npc-v04.png`.
+V04 aumenta a cabeça e fecha o teto com barras paralelas.
+V03 corrige as barras, coloca a cabeça para fora entre elas e integra um cadeado menor ao fecho. Imagegen integrado usando o sprite anterior como identidade/composição, Lula v02 como referência ideal e Nathan/Gabriel como referências adicionais. Mantidos jaula, figurino, posição, dimensões e papel decorativo. Prévia HD preservada.
+
+## Prompt final
+
+Edição v04 via imagegen integrado: Edit target Image1 Bolsonaro cartoon in cage. Keep latest cage door, straight evenly spaced bars, natural small gold padlock and head stuck OUTSIDE between two front bars. ENLARGE ONLY HIS HEAD by about 25 percent, using the larger round cartoon head proportions/facial rendering from Image2 previous version as reference while preserving Bolsonaro identity and grumpy expression. Body remains inside cage, head outside with neighboring bars flanking neck naturally, no rod passing through head/body flesh. ADD ROOF BARS: complete closed iron cage roof with straight parallel metal rods spanning top frame, evenly spaced, correct isometric perspective; rods behind/above head, not through hair. Preserve whole cage framing, suit, striped tie, hands gripping bars, shoes, flat cel shading and bold black outlines, composition and transparent alpha. No glow background text or extra objects. Head visibly larger than current target, cage same size.
+
+Correção estrutural v03 via imagegen integrado: Precise structural edit of this satirical cartoon Bolsonaro cage sprite. Fix cage geometry completely: straight evenly spaced parallel vertical iron bars, coherent rectangular isometric frame, correct intersections, no loose or misplaced rods. Character BODY entirely inside cage, ONLY HEAD pokes out through ONE gap between two front vertical bars as if stuck trying to squeeze through. The bars flank his neck/head sides, NEVER cross through flesh, never spear/impale him. Remove all bars intersecting torso unnaturally; front bars correctly occlude body which remains behind them. Hands can grip the two neighboring bars from inside. Head outside cage plane, expression frustrated/comically stuck, no injury. Fix lock: small plausible gold padlock with closed U-shaped shackle threaded through a metal hasp joining hinged door to fixed cage frame, correct perspective, attached naturally at door edge, no floating lock or awkward extra hardware. Preserve Bolsonaro facial identity, navy-black suit striped tie Brazil lapel pin, bold cartoon aesthetic matching new Lula, simplified large eyes, thick outlines and cel shading. Whole cage and shoes visible, same canvas composition. True transparent alpha, no background halo glow text or gore.
+
+### Redesenho de estilo
+
+Redraw Image1 existing satirical game sprite Jair Bolsonaro inside metal cage in EXACT cartoon aesthetic of Image2 new Lula (primary ideal style) and Images3 Nathan and4 Gabriel. Preserve Bolsonaro recognizable own identity: elderly light warm skin, short side-parted brown-gray hair, blue eyes, clean shaven, stern frowning expression. Thick clean black outlines, large simple oval expressive eyes looking at viewer, enlarged head compact cartoon body, simplified rounded nose/cheeks and brow, flat controlled two-tone cel shading. No realistic pores, wrinkles texture, individual hairs, portrait gradients or photorealism. Preserve black suit white shirt navy striped tie small Brazil lapel pin, hands gripping bars, full body shoes, closed isometric gray metal cage and gold padlock, same composition and framing. Simplify cage rendering to clean cartoon metal cel shading matching character; entire cage visible. Transparent background real alpha, no halo glow drop shadow scenery, no letters text or numbers. This is a fictional cartoon illustration, retain satirical cage scene from target.

diff --git a/docs/simone-lapa.md b/docs/simone-lapa.md
@@ -1,0 +1,15 @@
+# Simone Lapa
+
+Personagem encontrável no terreno texturizado atrás da montanha, em grupo único com palhaço, tubarão fora d’água e ET. Só Simone tem entrada no menu; retrato recorta seu rosto. Grupo editável pelo ID simone-lapa. Prévia HD preservada.
+
+Arte: `public/images/characters/simone-lapa-grupo-v01.png`.
+Retrato: `public/images/menu-portraits/simone-lapa.webp`.
+Geração imagegen integrado. Foto pessoal para identidade; Lula v02 como estilo principal, Nathan v01 e Gabriel v02 adicionais. A primeira variante foi descartada por copiar Lula como integrante.
+
+## Prompt inicial
+
+Use case stylized-concept. Transparent single group sprite for isometric cartoon village. Four friendly figures arranged compactly with SIMONE LAPA prominently in CENTER, full bodies visible: adult woman from Image1 identity reference, warm medium brown skin, round friendly face, very voluminous shoulder length tight black curls with a few gray strands, brown eyes, gentle toothy smile, no glasses. Purple ribbed long-sleeve top and silver necklace with small P pendant matching photo, dark trousers and comfortable shoes. Surround her with a friendly clown (red nose colorful costume curly wig) on left, a cute gray shark OUT OF WATER resting/standing on belly at front right with fins and smiling face, and small green extraterrestrial with big eyes behind/right. No violence, not frightening. Simone larger/prominent and readable, companions don't obscure face/body. Image2 NEW LULA is PRIMARY IDEAL STYLE; Images3 Nathan and4 Gabriel mandatory additional STYLE references. EXACT bold thick clean black contours, large SIMPLE oval expressive eyes, simplified rounded nose and smile, enlarged heads compact cartoon bodies, controlled two-tone flat cel shading. Preserve Simone own likeness, not reference faces. Eyes face viewer, elevated slight three-quarter perspective for map. No sheriff badge. All feet/fin/tentacles fully in canvas. Genuine transparent alpha, absolutely no glow halo floor scenery text or watermark. Landscape canvas. One coherent group with human scale companions and shark smaller than human, no setting.
+
+## Correção final
+
+Correct target group illustration. REPLACE the entire man on LEFT (white-bearded president with hat/sash) with a FRIENDLY CLOWN: no beard, no hat resembling Panama, no sash, white clown face makeup, round RED nose, bright orange curly wig, colorful red-yellow-blue loose costume, oversized colorful shoes, smiling. Keep central woman Simone, ET and shark arrangement. Also SIMPLIFY Simone face and hair into bold flat cartoon style: clean thick black outlines, simple rounded nose, large simple oval eyes dark pupils one white highlight directly toward viewer, simple white smile, flat two-tone shading with NO realistic skin texture/gradients and NO fine curly strands; hair broad chunky small cartoon curl clusters, some gray accents. Preserve Simone identity, warm medium brown skin, purple ribbed sweater P necklace, dark trousers. Primary request is woman surrounded by clown, shark and ET, NO politicians or extra humans. Keep full bodies and clean transparent alpha, no glow scenery text.

diff --git a/docs/lula-npc.md b/docs/lula-npc.md
@@ -1,0 +1,7 @@
+# Lula — revisão de estilo
+
+Arte atual: `public/images/modular/lula-npc-v02.png`. Gerada com imagegen integrado usando a referência enviada e Nathan v01 / Gabriel v02 como estilo. Mantém posição, tamanho, edição e condição de personagem decorativo. Sem cartaz ou textos. Prévia HD preservada.
+
+## Prompt final
+
+Create standalone full-body cartoon game sprite depicting Luiz Inácio Lula da Silva based on Image1 supplied cartoon reference. Preserve recognizable elderly man with white hair, full white beard, warm smile, cream Panama hat with black band, navy blue suit, white shirt, tie, Brazilian green-yellow presidential sash with gold fringe. One hand makes an L gesture, other gives thumbs up as reference. Complete shoes and legs visible. Images2 Nathan and3 Gabriel are mandatory exact game STYLE references: bold thick clean black contours, large simple expressive oval cartoon eyes facing viewer, enlarged head compact cartoon body, simple rounded nose and smile, flat controlled cel shading, not realistic or painterly. No sign, placard, banner, labels, letters, numbers, campaign text or text anywhere. No white sticker border. Transparent alpha background, no glow halo shadows scenery. Slight elevated three-quarter view to integrate village game. Keep cheerful friendly pose, portrait canvas.

diff --git a/docs/jakeline-sakamoto-v02.md b/docs/jakeline-sakamoto-v02.md
@@ -1,0 +1,7 @@
+# Jakeline — mãozinha e batom preto
+
+Arte: `public/images/characters/jakeline-sakamoto-v02.png`. Editada via imagegen integrado com o sprite anterior e a foto enviada como referência do acessório. Identidade e pose preservadas. Retrato do menu atualizado; prévia HD preservada.
+
+## Prompt final
+
+Precise edit of Image1 existing Jakeline Sakamoto cartoon game sprite. Change only two details: add solid BLACK lipstick to her existing lips, preserving mouth shape/expression; add a small friendly disembodied prop hand (Thing from Wednesday style) perched on her shoulder on viewer RIGHT, following Image2 costume photo reference. Hand pale skin, five fingers with natural anatomy draped on shoulder, wrist ending in a clean flat stitched costume seam, decorative stitched lines, no blood gore wound. It is a theatrical costume accessory, no arm/body. Hand must sit naturally with fingers resting on black shoulder fabric, not floating or covering face/braids. Preserve EXACT existing illustrated facial identity, eye shapes, hair/braids/light streaks, proportions, pose, clothes, shoes, framing and dimensions. Keep original bold clean cartoon contours and controlled cel shading, integrate accessory in same style. True transparent background alpha, no glow halo scenery text or extra elements.

diff --git a/AGENTS.md b/AGENTS.md
@@ -21,6 +21,8 @@ Diretriz do usuário em 03/10/2026: seguir [a estratégia de composição](docs/
 
 ## Estilo dos personagens
 
+Diretriz do usuário em 13/10/2026: usar também o novo Lula (`public/images/modular/lula-npc-v02.png`) como referência ideal de estilo nas próximas gerações e revisões, junto de Nathan e Gabriel. Priorizar suas formas cartoon simples, contornos pretos fortes, olhos expressivos e sombreamento controlado; preservar a identidade própria de cada pessoa.
+
 Diretriz do usuário em 10/10/2026: novos personagens devem olhar diretamente para o usuário, com olhos voltados para a frente, evitando o olhar habitual para o alto à direita. Exceções apenas quando a ação ou orientação solicitada exigir outro olhar (por exemplo, fila voltada ao atendimento).
 
 Diretriz do usuário em 09/10/2026: Nathan e Gabriel são as referências principais de estilo para personagens (`public/images/characters/nathan-machado-v01.png` e `gabriel-martins-v02.png`). Usá-los explicitamente nas gerações: contornos pretos definidos, proporções cartoon, olhos expressivos e sombreamento controlado. Usar a foto de cada pessoa como referência de identidade facial; não reutilizar o rosto de outro personagem. Preservar identidades ilustradas preexistentes quando solicitado pelo usuário.
